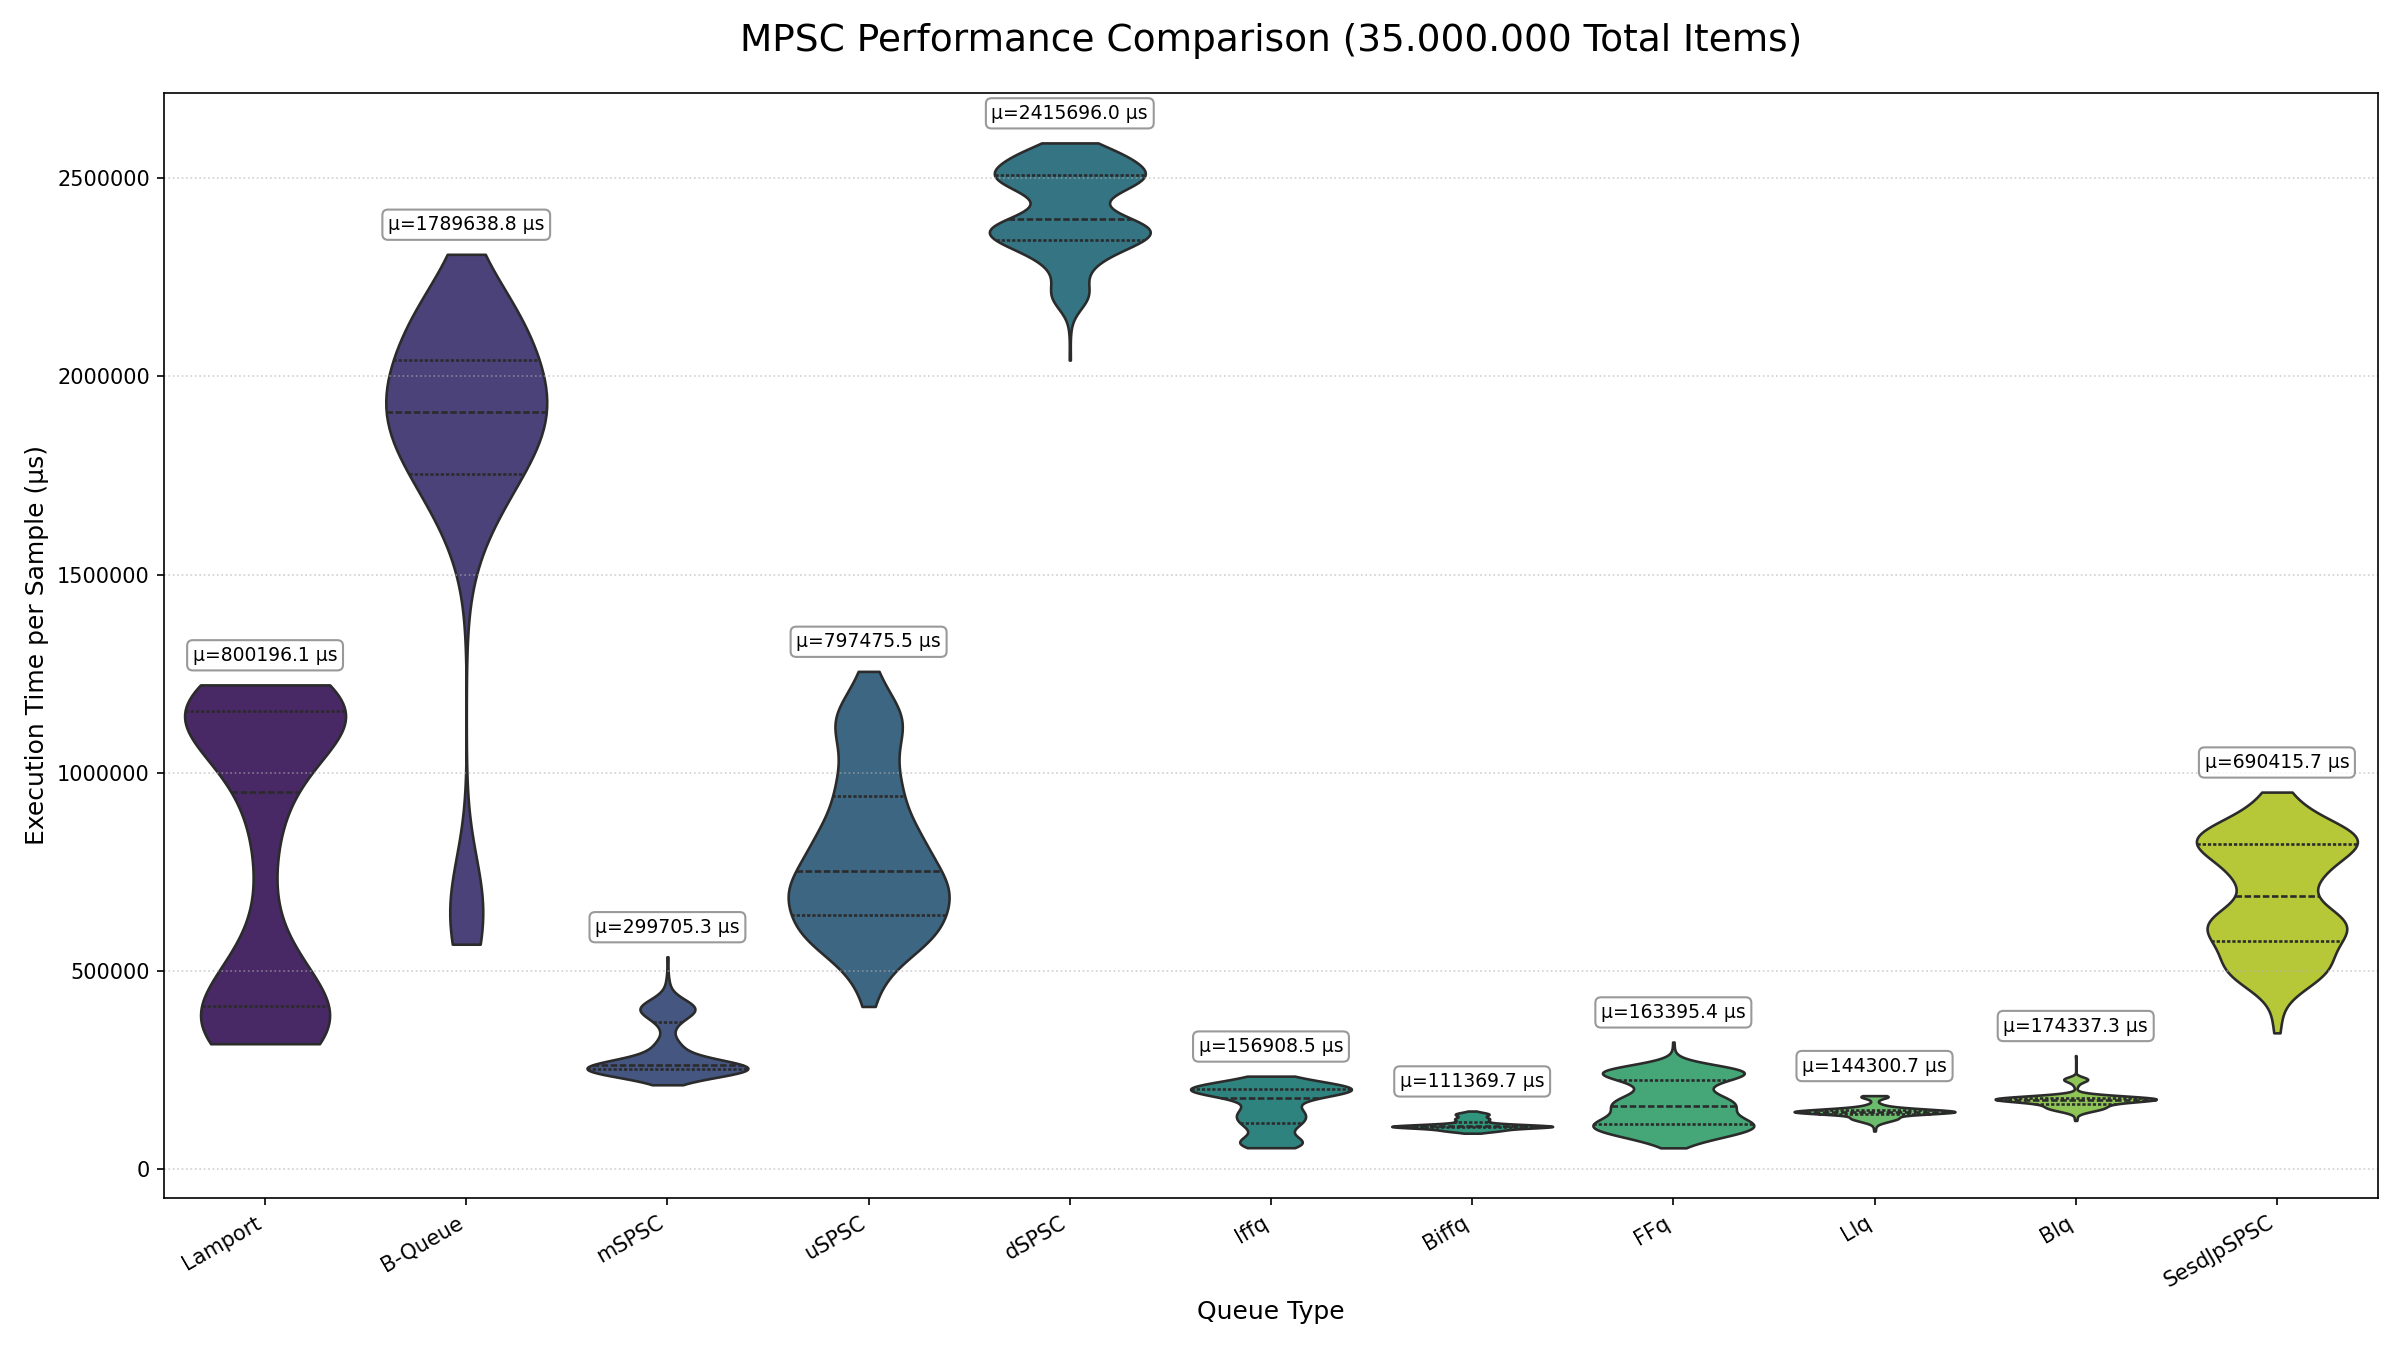
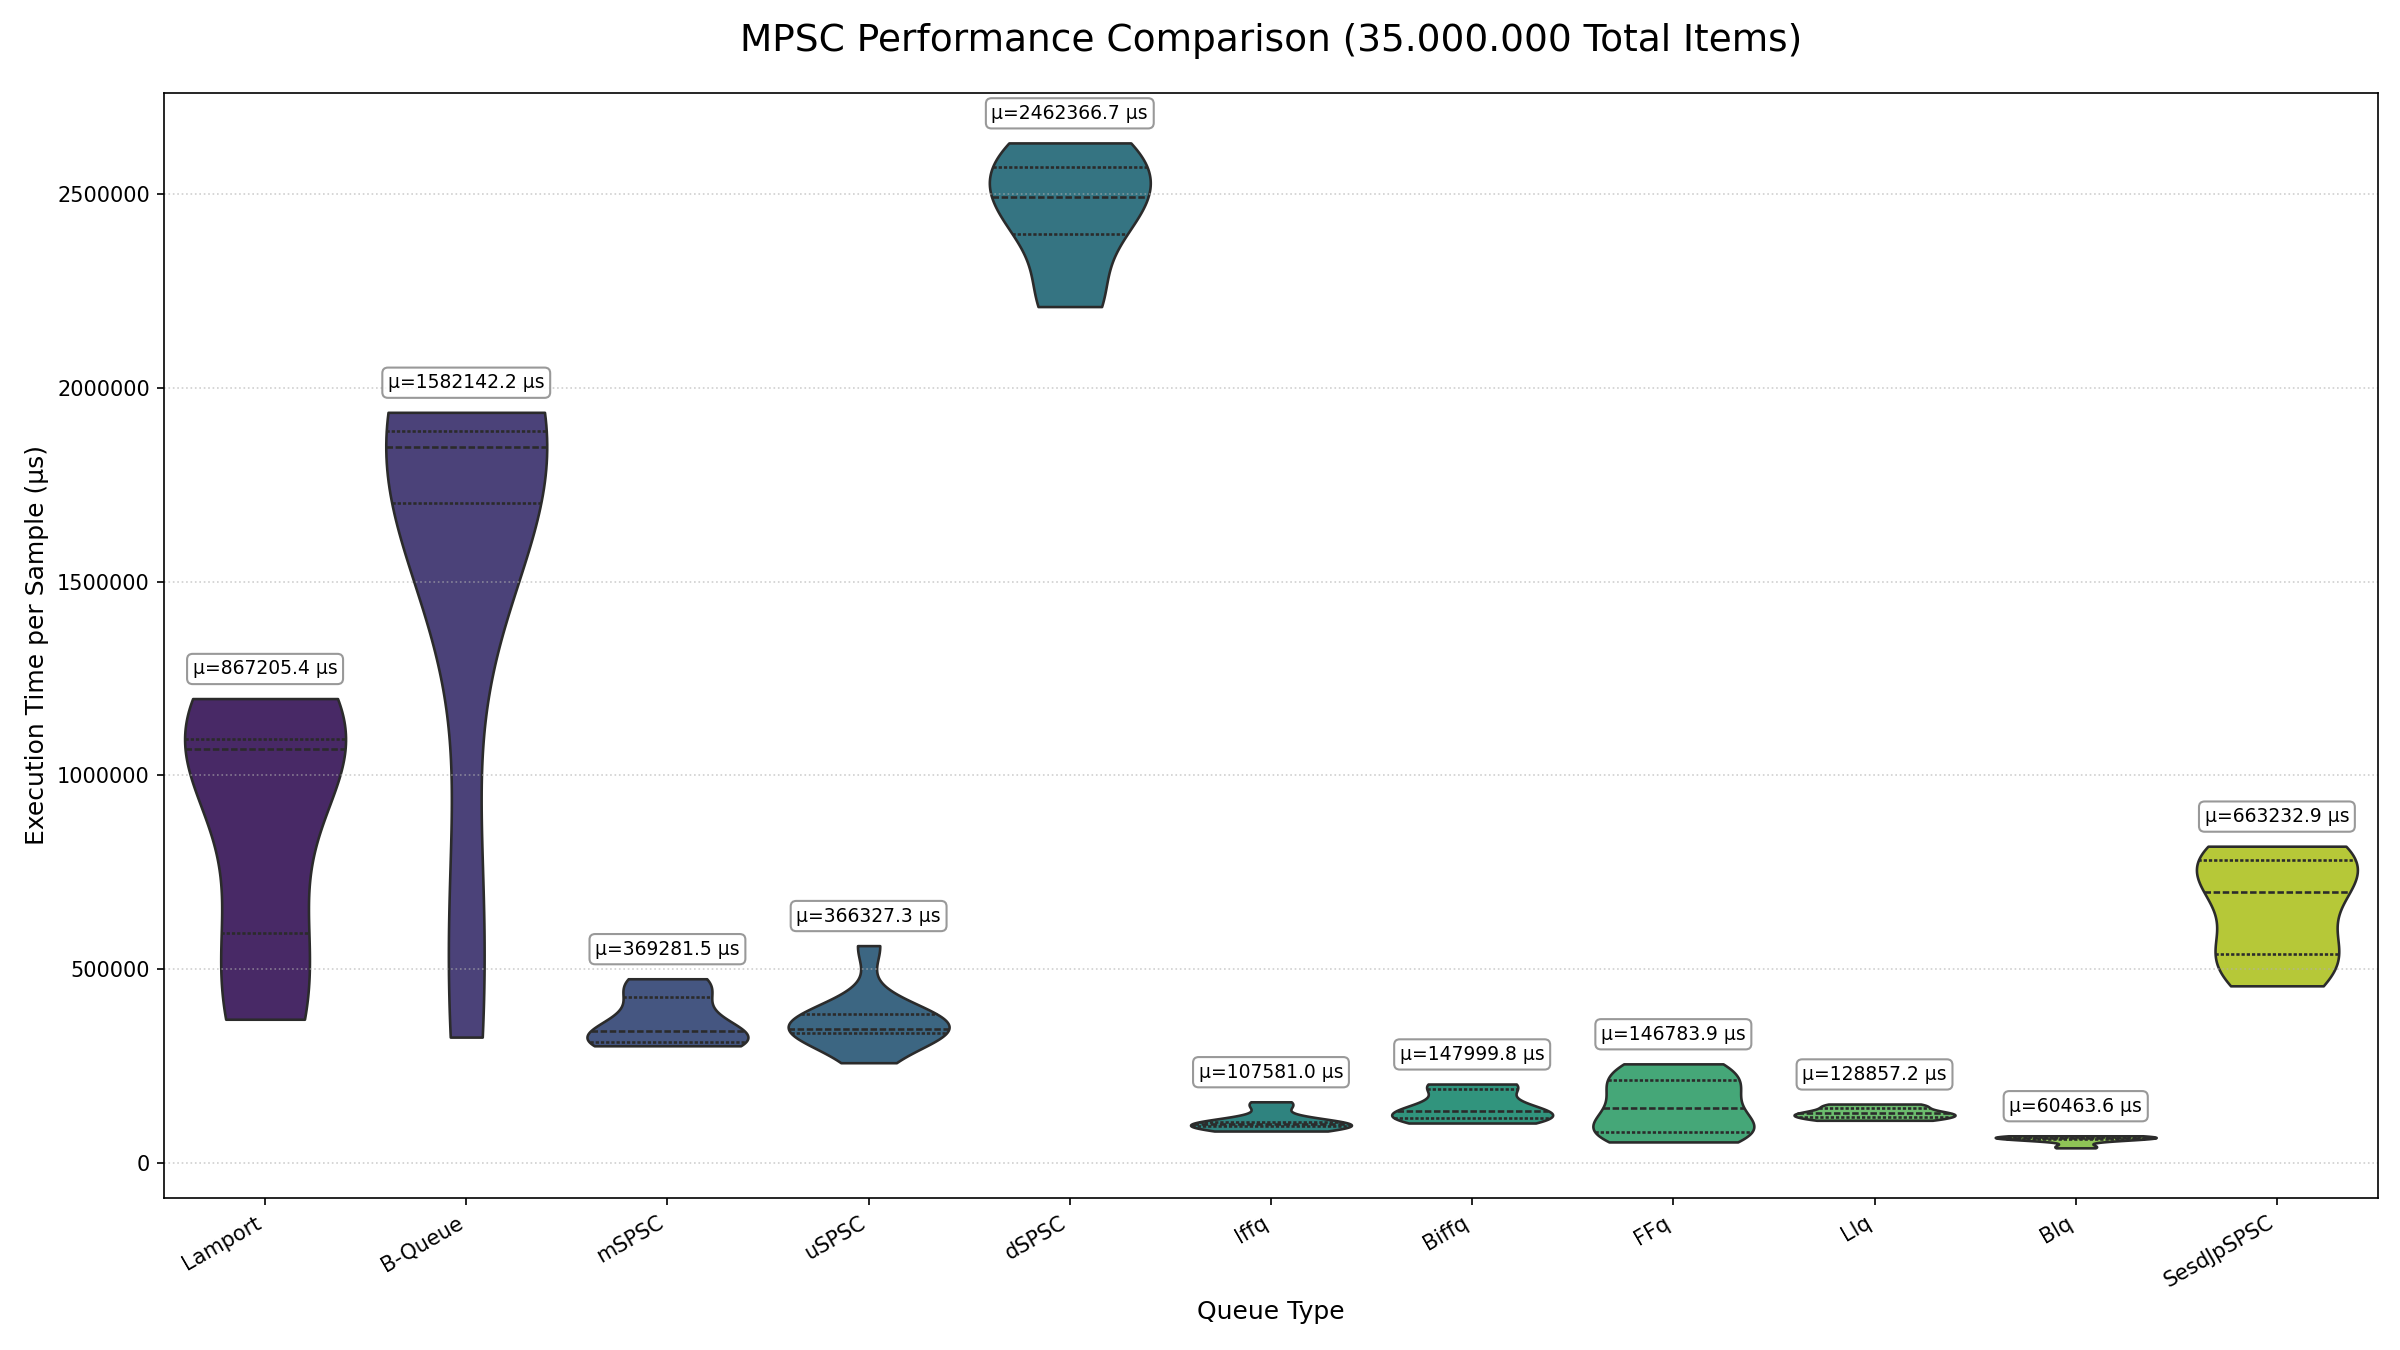
update bench to use batching

diff --git a/queues/benches/spsc_bench.rs b/queues/benches/spsc_bench.rs
@@ -22,6 +22,7 @@ const PERFORMANCE_TEST: bool = false;
 const RING_CAP: usize = 524_288;
 const ITERS: usize = 35_000_000;
 const MAX_BENCH_SPIN_RETRY_ATTEMPTS: usize = 1_000_000_000;
+const BATCH_SIZE: usize = 32;
 
 trait BenchSpscQueue<T: Send>: Send + Sync + 'static {
     fn bench_push(&self, item: T) -> Result<(), ()>;
@@ -430,25 +431,61 @@ where
                 std::hint::spin_loop();
             }
 
-            let mut push_attempts = 0;
-            for i in 0..ITERS {
-                while q.bench_push(i).is_err() {
-                    push_attempts += 1;
-                    if push_attempts > MAX_BENCH_SPIN_RETRY_ATTEMPTS {
-                        panic!("Producer exceeded max spin retry attempts for push");
-                    }
-                    std::hint::spin_loop();
-                }
+            if let Some(blq_queue) = (q as &dyn std::any::Any).downcast_ref::<BlqQueue<usize>>() {
+                let mut i = 0;
+                let mut push_attempts = 0;
 
-                if needs_special_sync && i > 0 && i % 1000 == 0 {
-                    std::sync::atomic::fence(Ordering::SeqCst);
+                while i < ITERS {
+                    let remaining = ITERS - i;
+                    let batch_size = remaining.min(BATCH_SIZE);
 
-                    for _ in 0..10 {
+                    let space = blq_queue.blq_enq_space(batch_size);
+                    if space == 0 {
+                        push_attempts += 1;
+                        if push_attempts > MAX_BENCH_SPIN_RETRY_ATTEMPTS {
+                            panic!("BLQ Producer exceeded max spin retry attempts");
+                        }
                         std::hint::spin_loop();
+                        continue;
+                    }
+
+                    let to_push = space.min(batch_size);
+                    let mut pushed = 0;
+                    for j in 0..to_push {
+                        if blq_queue.blq_enq_local(i + j).is_ok() {
+                            pushed += 1;
+                        } else {
+                            break;
+                        }
+                    }
+
+                    if pushed > 0 {
+                        blq_queue.blq_enq_publish();
+                        i += pushed;
+                        push_attempts = 0;
+                    }
+                }
+            } else {
+                let mut push_attempts = 0;
+                for i in 0..ITERS {
+                    while q.bench_push(i).is_err() {
+                        push_attempts += 1;
+                        if push_attempts > MAX_BENCH_SPIN_RETRY_ATTEMPTS {
+                            panic!("Producer exceeded max spin retry attempts for push");
+                        }
+                        std::hint::spin_loop();
+                    }
+
+                    if needs_special_sync && i > 0 && i % 1000 == 0 {
+                        std::sync::atomic::fence(Ordering::SeqCst);
+                        for _ in 0..10 {
+                            std::hint::spin_loop();
+                        }
                     }
                 }
             }
 
+            // Flush any remaining items
             if let Some(mp_queue) =
                 (q as &dyn std::any::Any).downcast_ref::<MultiPushQueue<usize>>()
             {
@@ -482,7 +519,6 @@ where
 
             if needs_special_sync {
                 std::sync::atomic::fence(Ordering::SeqCst);
-
                 std::thread::sleep(std::time::Duration::from_millis(10));
             }
 
@@ -505,46 +541,88 @@ where
             let mut pop_spin_attempts = 0;
             let mut consecutive_failures = 0;
 
-            while consumed_count < ITERS {
-                let producer_done = sync_atomic_flag.load(Ordering::Acquire) == 3;
+            if let Some(blq_queue) = (q as &dyn std::any::Any).downcast_ref::<BlqQueue<usize>>() {
+                while consumed_count < ITERS {
+                    let producer_done = sync_atomic_flag.load(Ordering::Acquire) == 3;
+                    let remaining = ITERS - consumed_count;
+                    let batch_size = remaining.min(BATCH_SIZE);
 
-                if let Ok(_item) = q.bench_pop() {
-                    consumed_count += 1;
-                    pop_spin_attempts = 0;
-                    consecutive_failures = 0;
-                } else {
-                    pop_spin_attempts += 1;
-                    consecutive_failures += 1;
+                    let available = blq_queue.blq_deq_space(batch_size);
+                    if available == 0 {
+                        pop_spin_attempts += 1;
+                        consecutive_failures += 1;
 
-                    if needs_special_sync && consecutive_failures > 100 {
-                        std::sync::atomic::fence(Ordering::SeqCst);
-                        std::thread::yield_now();
-                        consecutive_failures = 0;
-                    }
-
-                    if producer_done && consecutive_failures > 1000 {
-                        for _ in 0..100 {
-                            std::sync::atomic::fence(Ordering::SeqCst);
-                            std::thread::sleep(std::time::Duration::from_micros(10));
-
-                            if let Ok(_) = q.bench_pop() {
-                                consumed_count += 1;
-                                break;
-                            }
+                        if producer_done && consecutive_failures > 1000 {
+                            break;
                         }
 
-                        if consumed_count < ITERS {
+                        if pop_spin_attempts > MAX_BENCH_SPIN_RETRY_ATTEMPTS && !producer_done {
+                            panic!("BLQ Consumer exceeded max spin retry attempts");
+                        }
+
+                        std::hint::spin_loop();
+                        continue;
+                    }
+
+                    let to_pop = available.min(batch_size);
+                    let mut popped = 0;
+                    for _ in 0..to_pop {
+                        if blq_queue.blq_deq_local().is_ok() {
+                            popped += 1;
+                        } else {
                             break;
                         }
                     }
 
-                    if pop_spin_attempts > MAX_BENCH_SPIN_RETRY_ATTEMPTS && !producer_done {
-                        panic!(
-                            "Consumer exceeded max spin retry attempts for pop (producer not done)"
-                        );
+                    if popped > 0 {
+                        blq_queue.blq_deq_publish();
+                        consumed_count += popped;
+                        pop_spin_attempts = 0;
+                        consecutive_failures = 0;
                     }
+                }
+            } else {
+                while consumed_count < ITERS {
+                    let producer_done = sync_atomic_flag.load(Ordering::Acquire) == 3;
 
-                    std::hint::spin_loop();
+                    if let Ok(_item) = q.bench_pop() {
+                        consumed_count += 1;
+                        pop_spin_attempts = 0;
+                        consecutive_failures = 0;
+                    } else {
+                        pop_spin_attempts += 1;
+                        consecutive_failures += 1;
+
+                        if needs_special_sync && consecutive_failures > 100 {
+                            std::sync::atomic::fence(Ordering::SeqCst);
+                            std::thread::yield_now();
+                            consecutive_failures = 0;
+                        }
+
+                        if producer_done && consecutive_failures > 1000 {
+                            for _ in 0..100 {
+                                std::sync::atomic::fence(Ordering::SeqCst);
+                                std::thread::sleep(std::time::Duration::from_micros(10));
+
+                                if let Ok(_) = q.bench_pop() {
+                                    consumed_count += 1;
+                                    break;
+                                }
+                            }
+
+                            if consumed_count < ITERS {
+                                break;
+                            }
+                        }
+
+                        if pop_spin_attempts > MAX_BENCH_SPIN_RETRY_ATTEMPTS && !producer_done {
+                            panic!(
+                                "Consumer exceeded max spin retry attempts for pop (producer not done)"
+                            );
+                        }
+
+                        std::hint::spin_loop();
+                    }
                 }
             }
 
@@ -575,7 +653,7 @@ where
 fn custom_criterion() -> Criterion {
     Criterion::default()
         .warm_up_time(Duration::from_secs(2))
-        .measurement_time(Duration::from_secs(2500))
+        .measurement_time(Duration::from_secs(4200))
         .sample_size(500)
 }
 
